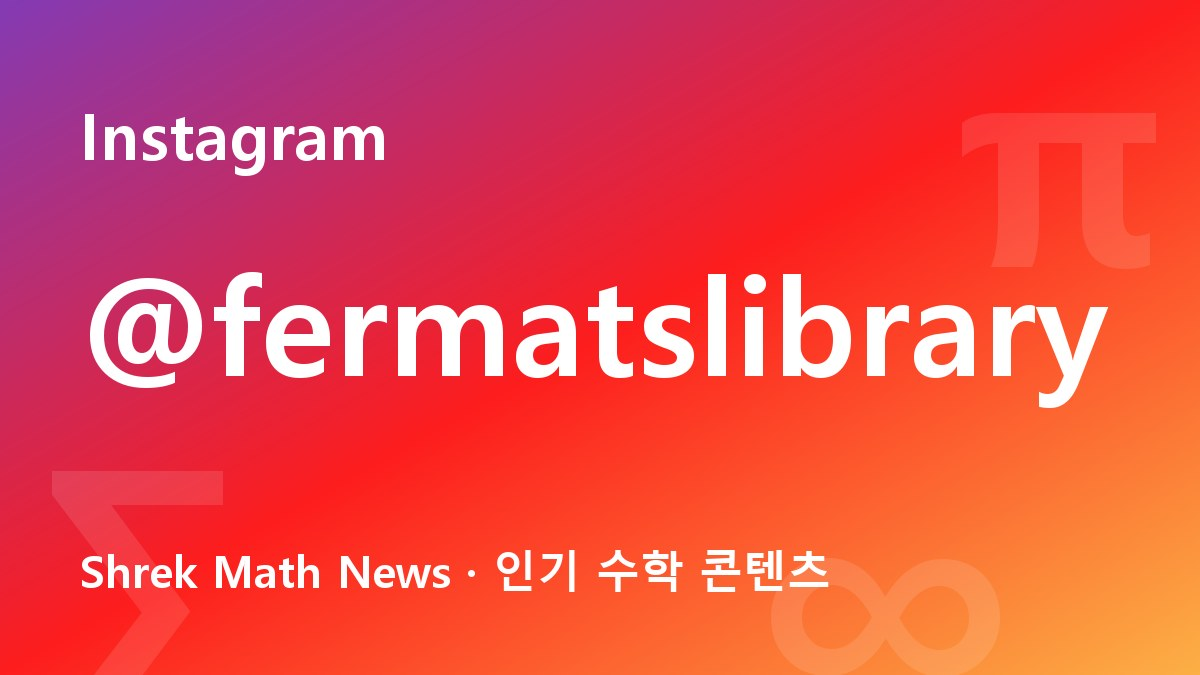
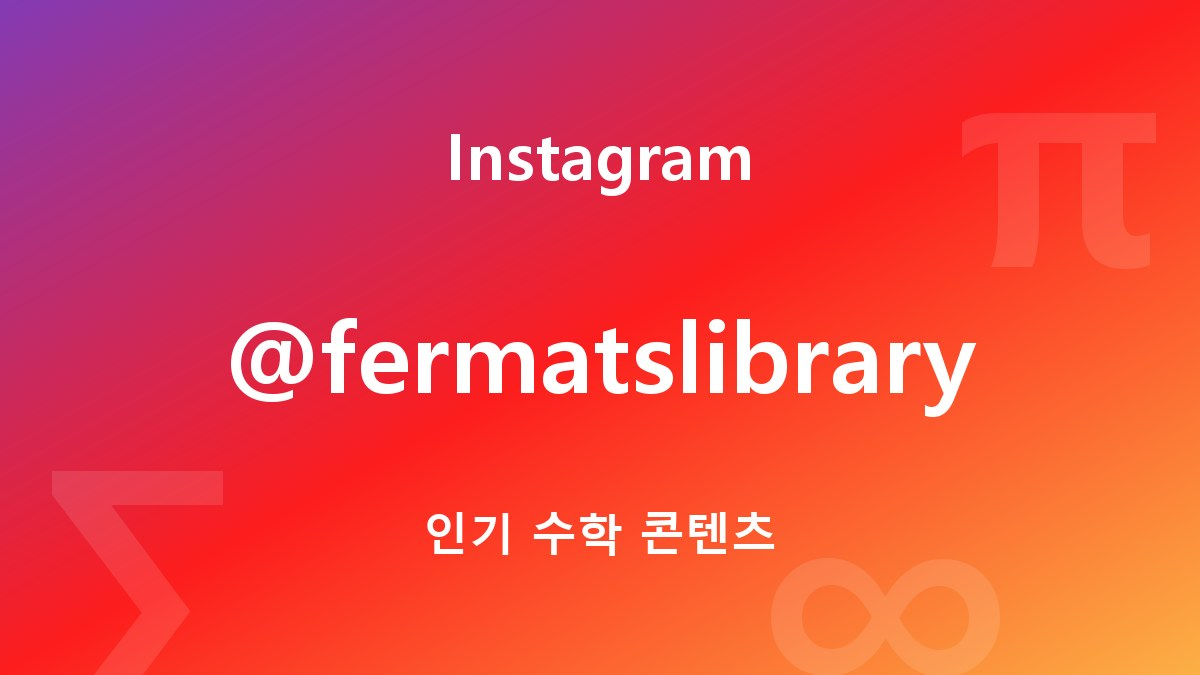
fix: SNS 카드 섬네일 글자를 가운데로 (카드에서 잘리지 않게)

diff --git a/scripts/make-social-thumbs.py b/scripts/make-social-thumbs.py
@@ -50,11 +50,17 @@ def make(card):
         d.text((x, y), sym, font=font(300), fill=(255, 255, 255, 30))
     img = Image.alpha_composite(img, layer)
 
+    # 카드에서는 세로로 긴 칸에 맞춰 좌우가 잘리므로, 글자는 가운데 760px 안에만 둠
     draw = ImageDraw.Draw(img)
-    draw.text((80, 90), card['platform'], font=font(64), fill=(255, 255, 255))
-    label_font = fit(draw, card['label'], W - 160, 170)
-    draw.text((80, 230), card['label'], font=label_font, fill=(255, 255, 255))
-    draw.text((80, 540), 'Shrek Math News · 인기 수학 콘텐츠', font=font(44), fill=(255, 255, 255))
+    SAFE = 760
+
+    def centered(text, y, f):
+        draw.text(((W - draw.textlength(text, font=f)) / 2, y), text, font=f, fill=(255, 255, 255))
+
+    centered(card['platform'], 110, font(64))
+    label_font = fit(draw, card['label'], SAFE, 170)
+    centered(card['label'], 250 + (170 - label_font.size) / 2, label_font)
+    centered('인기 수학 콘텐츠', 500, font(46))
 
     img.convert('RGB').save(os.path.join(OUT, card['id'] + '.jpg'), quality=88, optimize=True)
 
